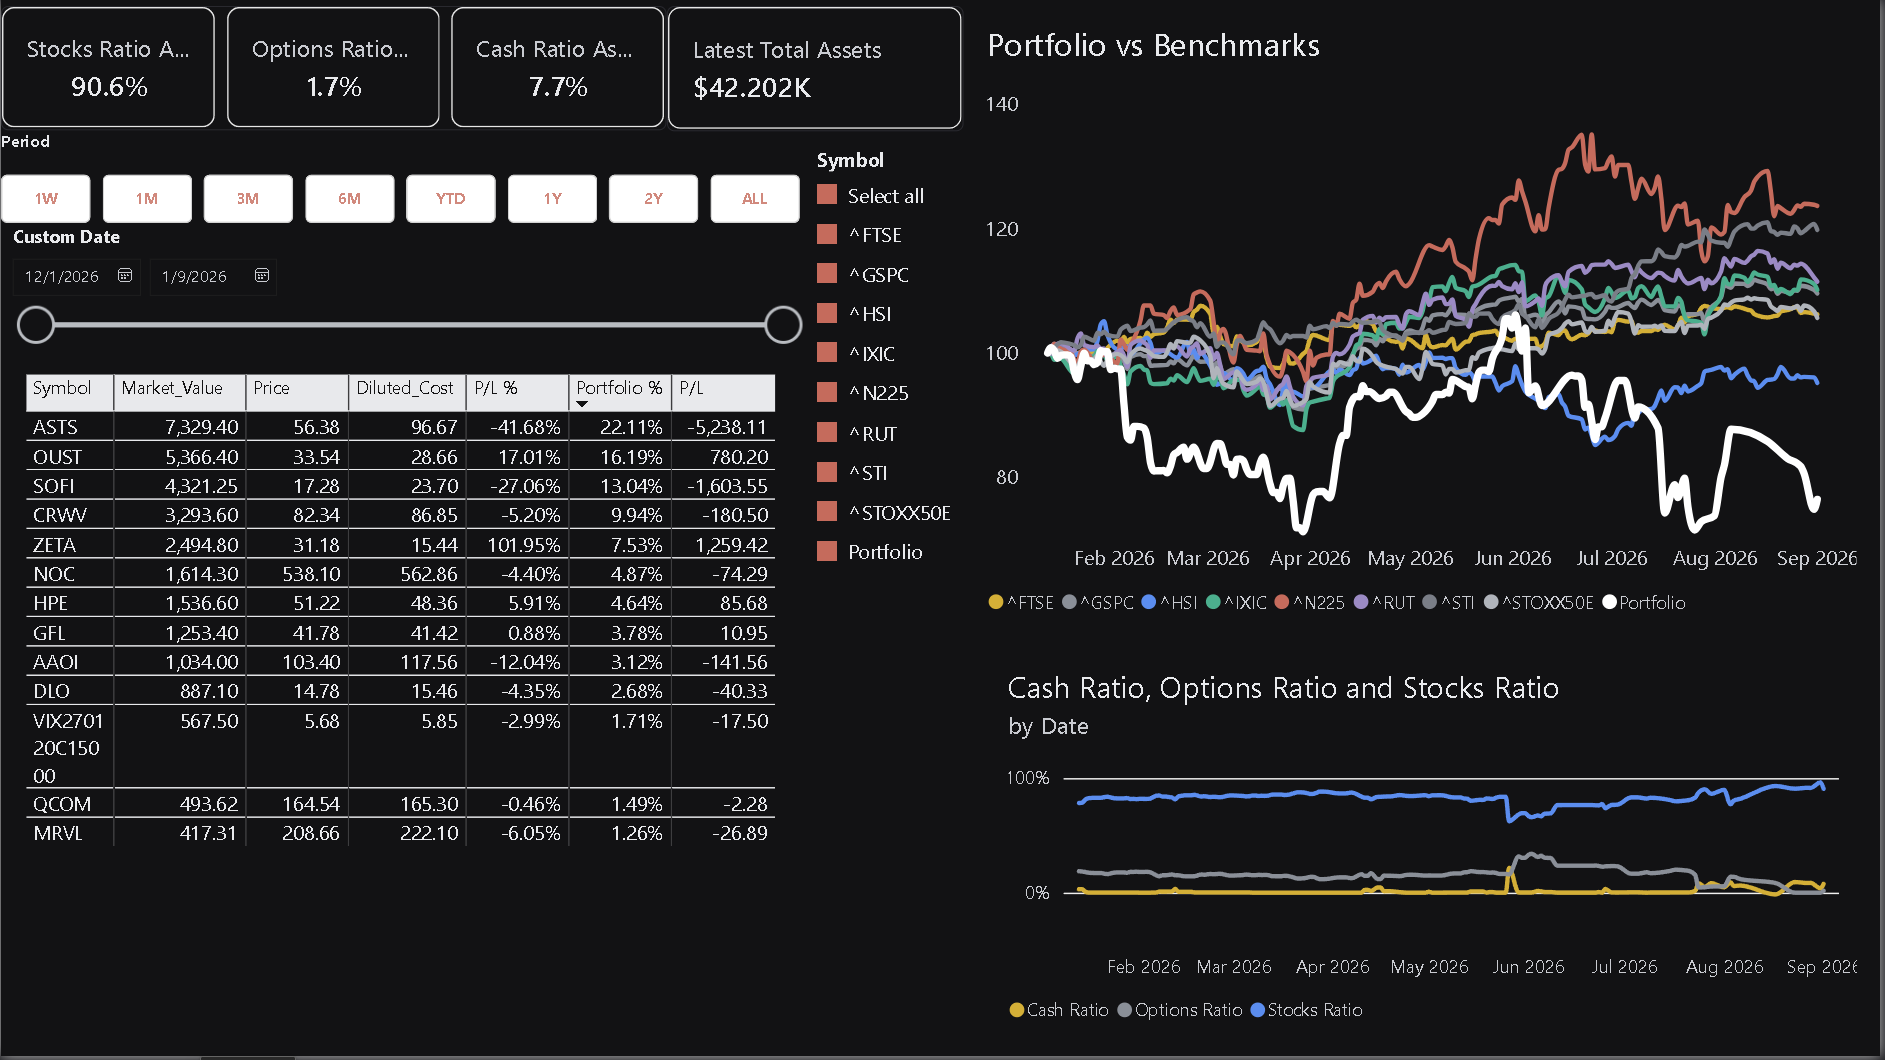
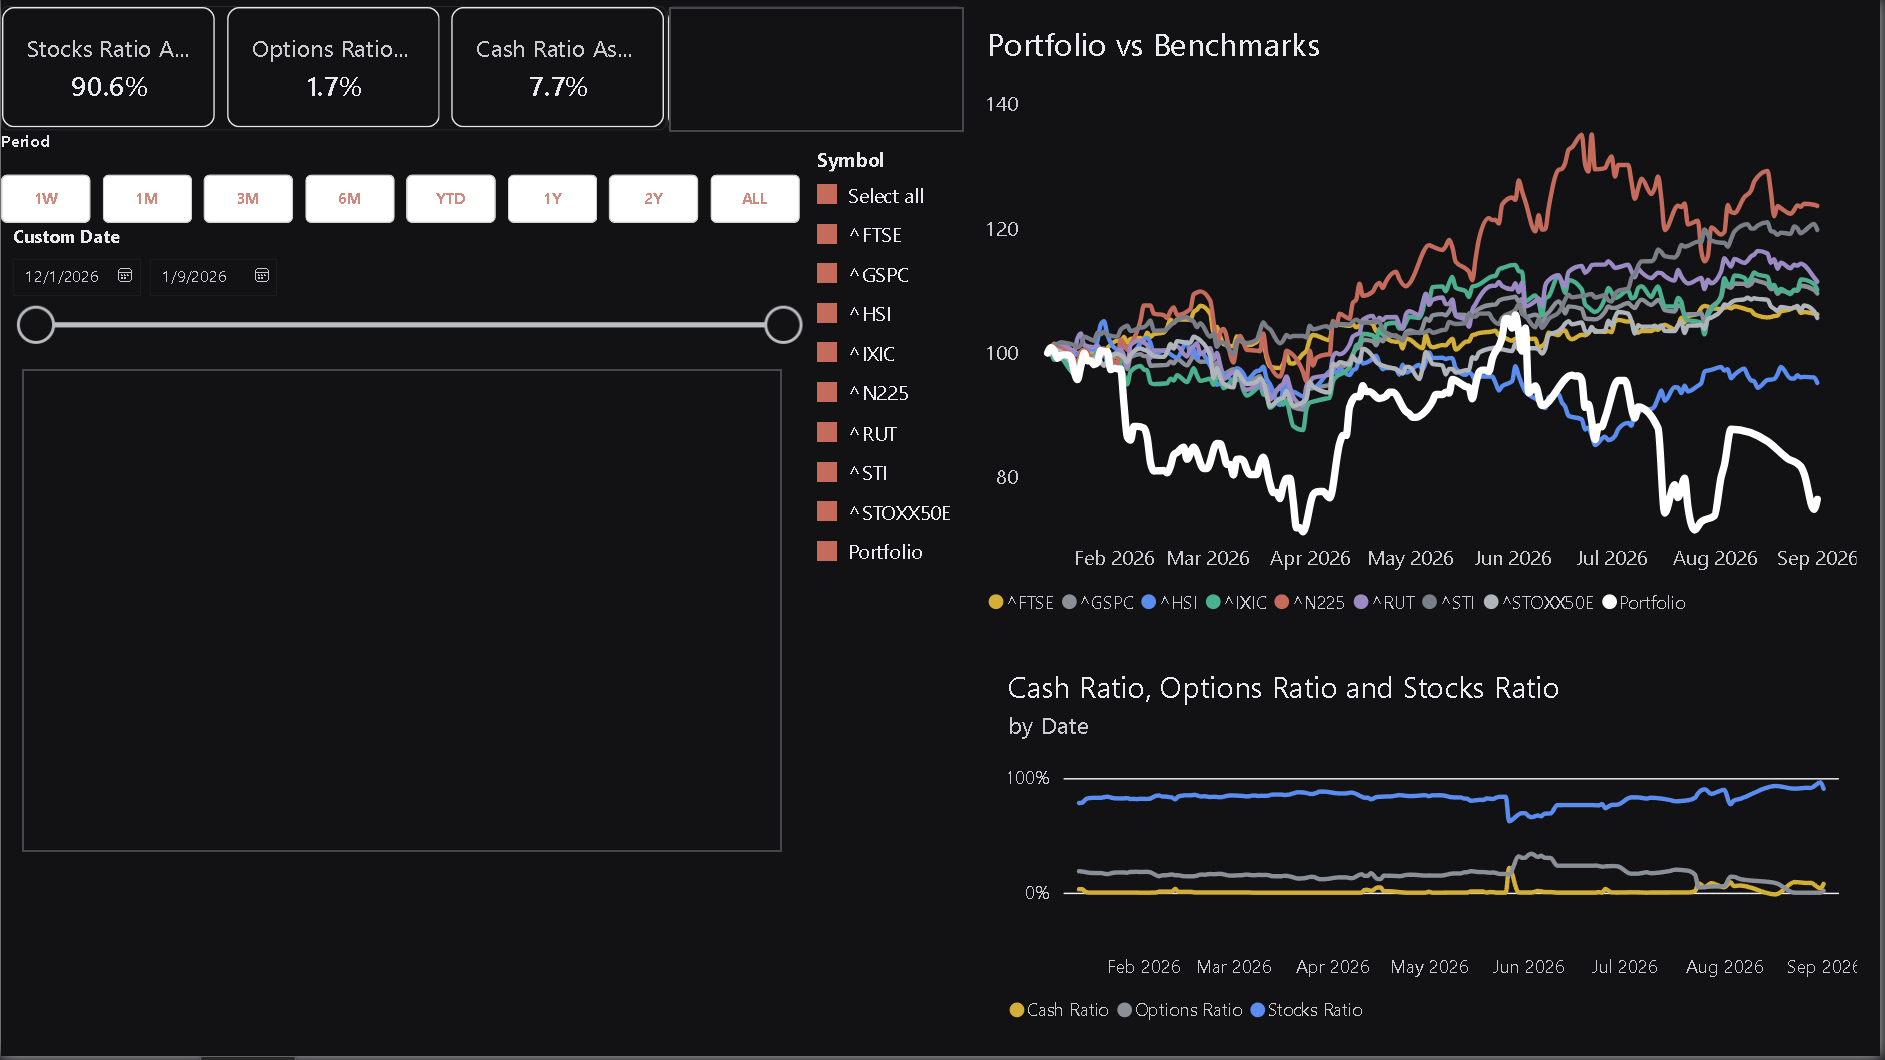
Redact personal financial data from images; gitignore PDF export

diff --git a/README.md b/README.md
@@ -67,7 +67,7 @@ MOOMOO_LOGIN_PWD=your_password
 OPEND_DIR=C:\Users\YourName\.ssh\moomoo_OpenD_9.6.5618_Windows
 
 # Date you opened your Moomoo account (YYYY-MM-DD)
-START_DATE="2023-08-07"
+START_DATE="YYYY-MM-DD"
 ```
 
 > **Why this structure?**
@@ -137,7 +137,7 @@ applied inside each measure. The learning track and measure designs are document
 | ------------- | ---------- |
 | ![Overview page](powerbi/PowerBI/Media/Checkpoint%203%20-%20Page%201.png) | ![Risks page](powerbi/PowerBI/Media/Checkpoint%204%20-%20Page%202.png) |
 
-[Download the full report (PDF export)](powerbi/PowerBI/Media/Stock%20Portfolio%20PowerBI%20pdf%20Export.pdf)
+> Screenshots are redacted for privacy — portfolio values, holdings and trade details are hidden; the full-res interactive report is not published.
 
 ## 📊 Usage
 

diff --git a/powerbi/POWERBI_ROADMAP.md b/powerbi/POWERBI_ROADMAP.md
@@ -337,8 +337,7 @@ Checkpoint 4: DONE — screenshots of every page in Media/, PDF exported (Phase 
 >    paths left in the model. The combine-free shape kept: each file remains its
 >    own query. This is the shape VSMC would use for a daily report.
 > 3. Power BI Service: DECLINED by user decision — PDF export is the delivery
->    artifact instead (Media/Stock Portfolio PowerBI pdf Export.pdf, linked from
->    NOTES Phase 5).
+>    artifact (kept locally — not published; contains real portfolio values).
 > 4. Optional later: SQLite directly via ODBC (System DSN) — ask when wanted.
 > 5. PDF into the Portfolio Site assets folder later (separate existing pipeline).
 

diff --git a/powerbi/PowerBI/NOTES.md b/powerbi/PowerBI/NOTES.md
@@ -1182,5 +1182,5 @@ How I use this file: at each checkpoint, fill the matching section before moving
 
 - Delivery: exported the full report to PDF
 
-![Checkpoint 5 — Full report PDF export](Media/Stock%20Portfolio%20PowerBI%20pdf%20Export.pdf)
+(Checkpoint 5 — Full report PDF export: kept locally, not published — contains real portfolio values.)
 
